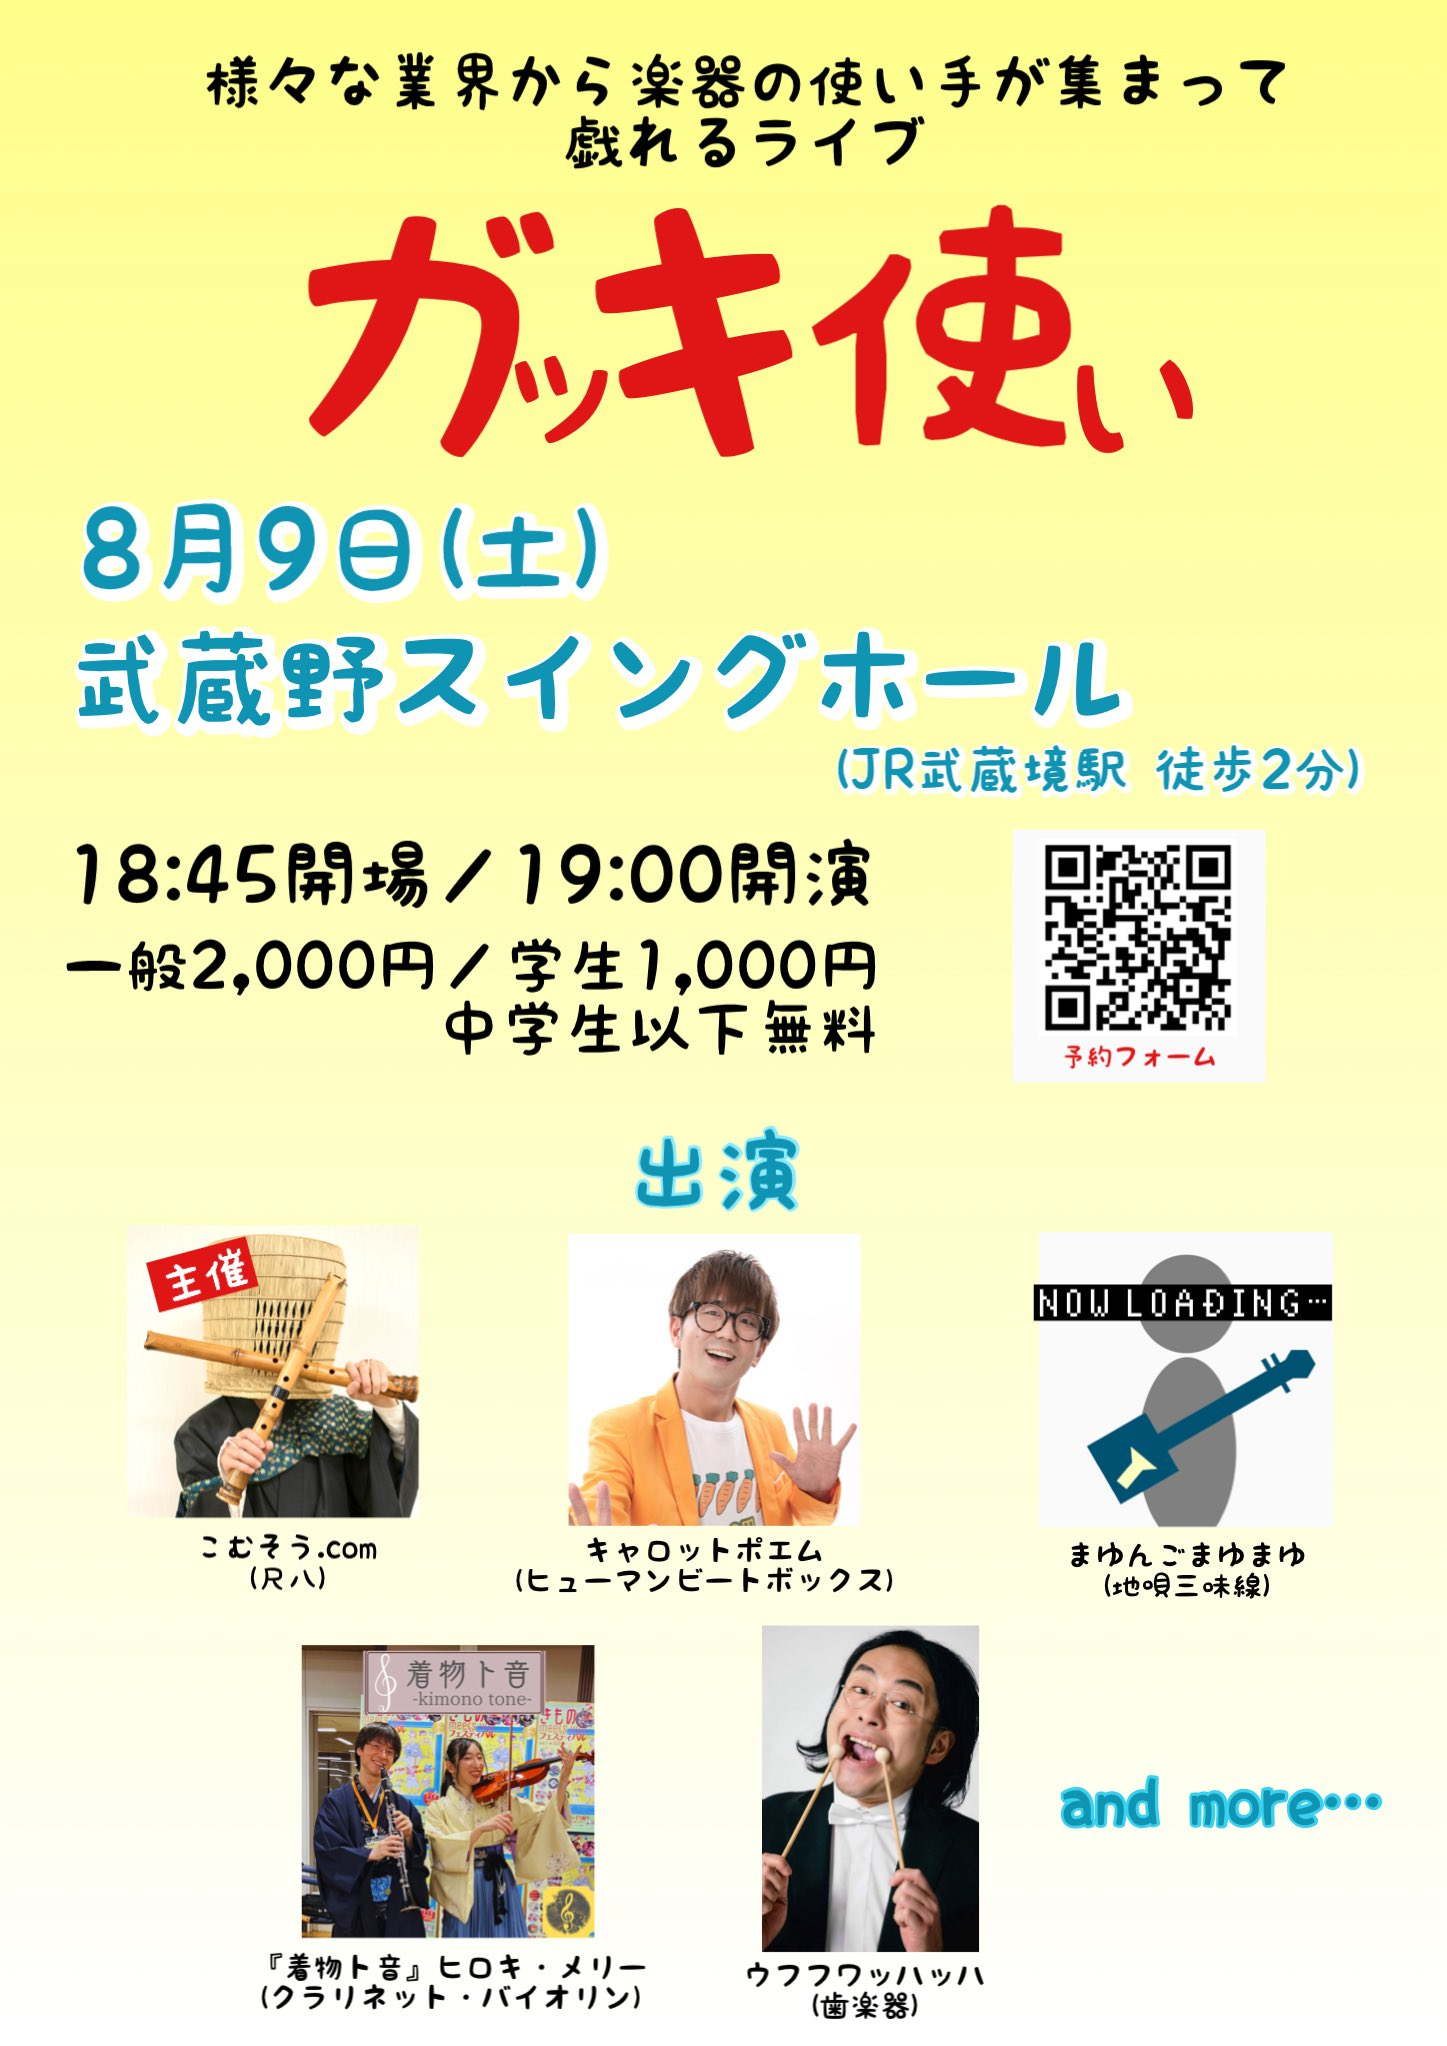
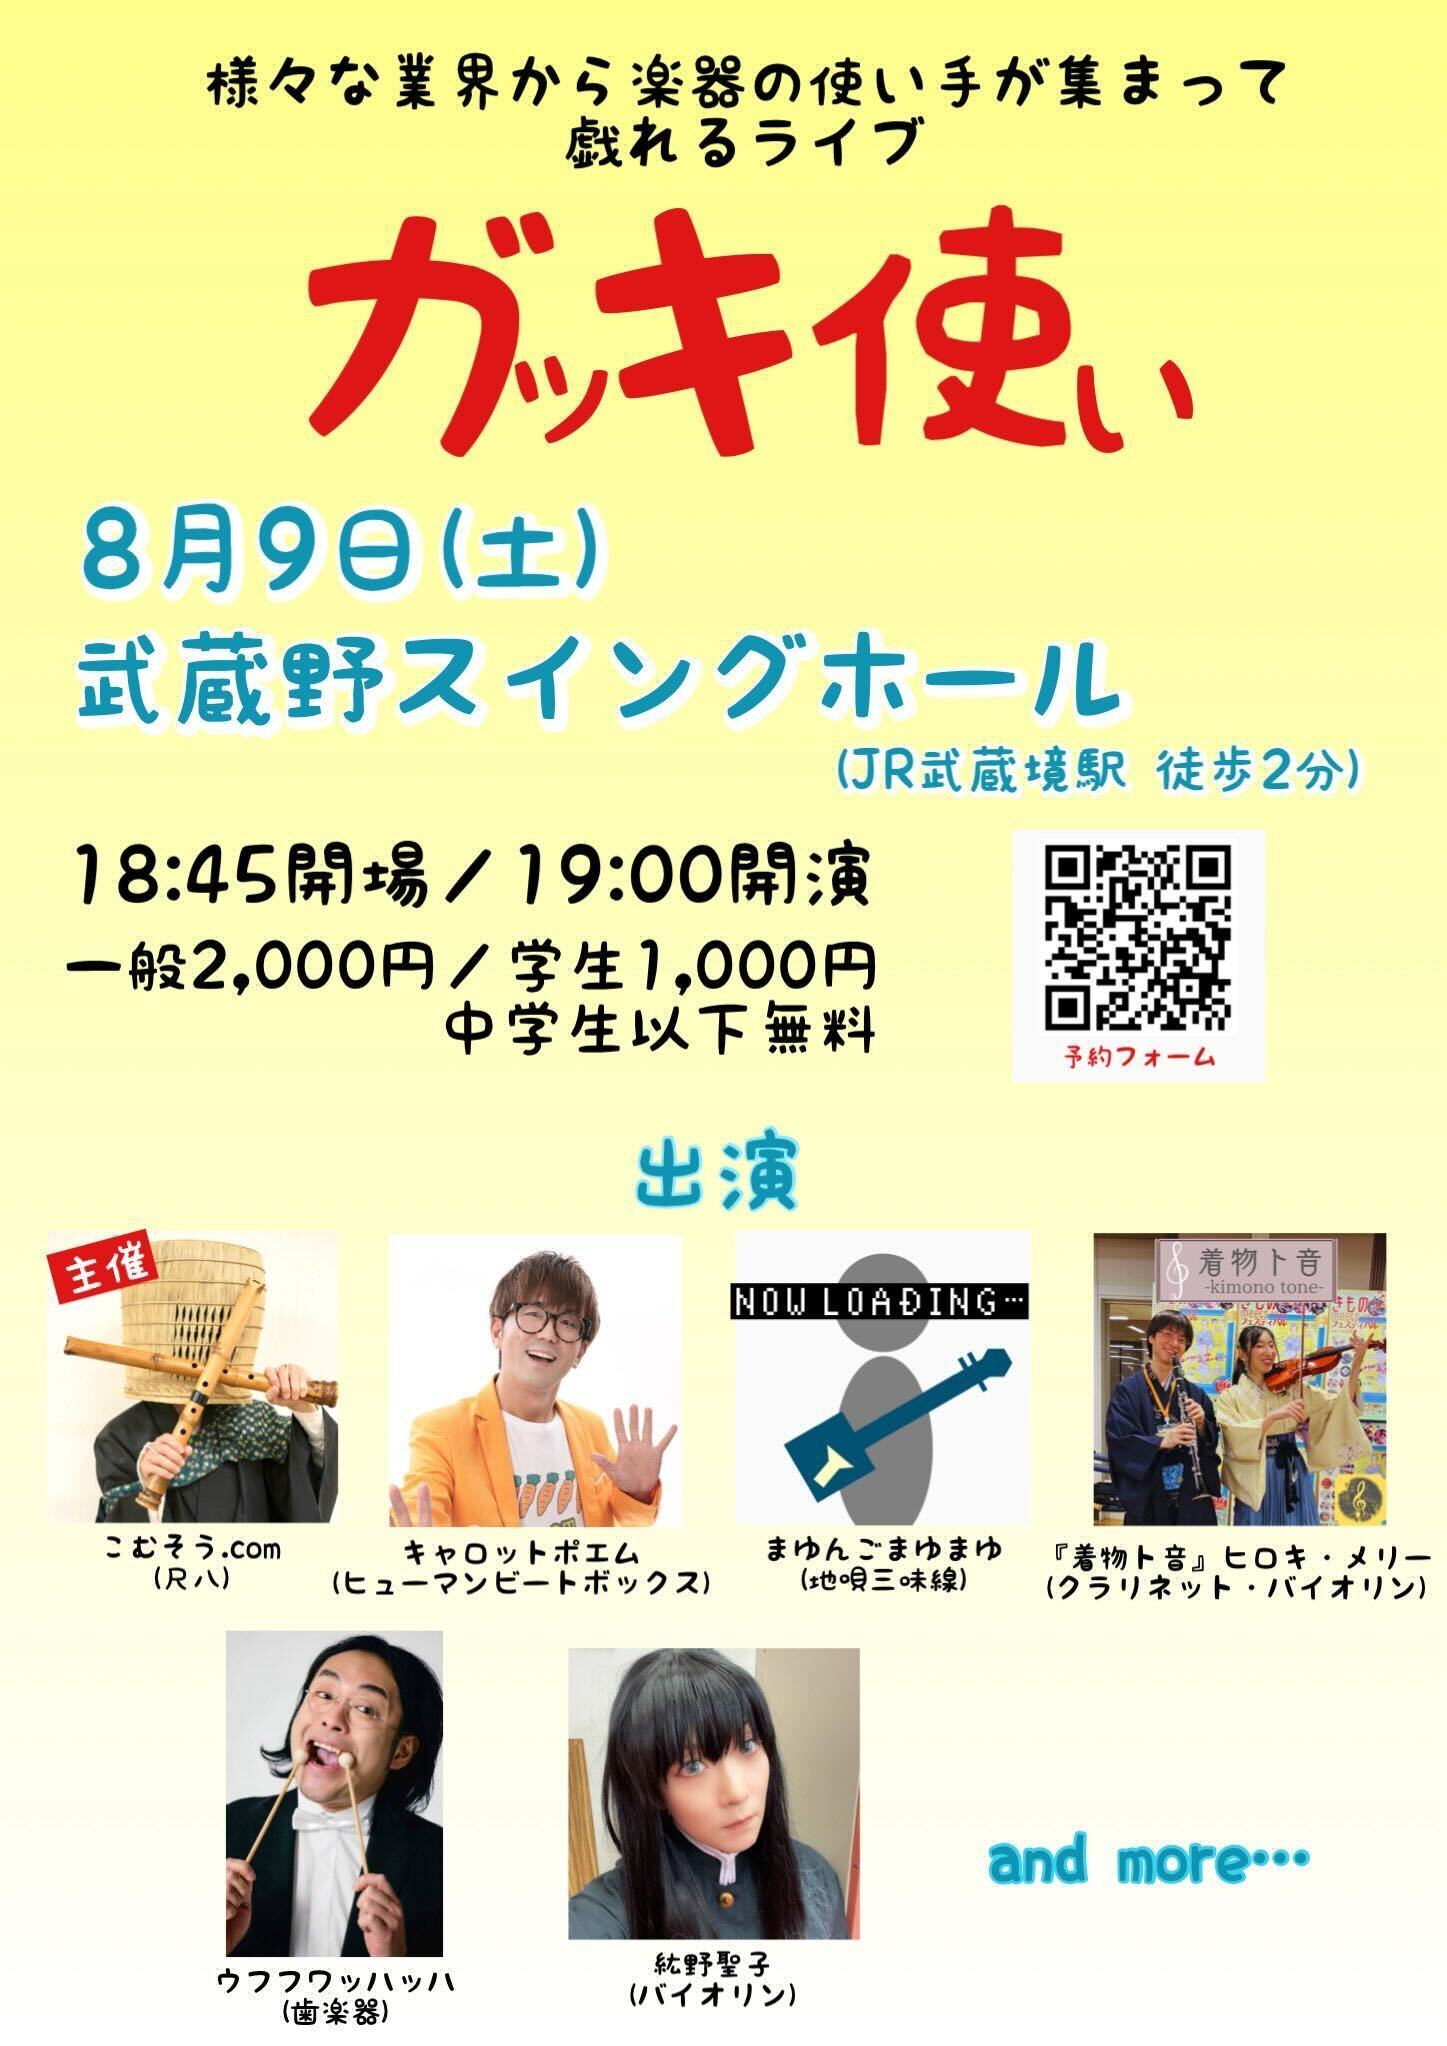
Update:出演者追加

Changed region(s): [[0.0311, 0.585, 0.9641, 1.0]]

diff --git a/casts.html b/casts.html
@@ -56,6 +56,11 @@
                 <p>ウフフワッハッハ<br>
                     歯楽器</p>
             </div>
+            <div class="member">
+                <img src="./images/hirono.jpg" width="320" height="320">
+                <p>紘野聖子<br>
+                    バイオリン</p>
+            </div>
         </div>
         <script src="./js/main.js"></script>
     </body>
